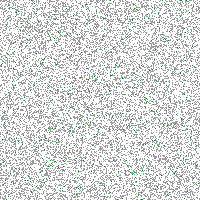
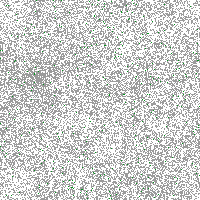
Normal chip pink noise (1/f^1.5 FFT-based spatial field)
Replaced 8x8 grid bilinear field (had visible grid artifacts) with
natural 1/f^β pink noise via FFT — sensor-like spatial variation
without grid boundaries. Models physical phenomena: lithography drift,
sensor hot spots, temperature gradient.

- _pink_noise_field(rng, size, exponent=1.5): FFT-based 2D pink noise
- _make_normal_chip: per-chip overall_scale (Beta(2,8)) + spatial pink
  noise field for p_noise modulation. Separate g2_field (β=2.0) for
  green dot clustering.
- Regenerate 200 chip_multilabel/Normal/ + 200 classification_chips/Normal/.
- Diversity: mean grade std 0.107, range 0.020-0.569 (200 chips, all unique
  spatial patterns).

diff --git a/chip_multilabel/gen_eval_set.py b/chip_multilabel/gen_eval_set.py
@@ -73,26 +73,68 @@ def _min_blend(a: np.ndarray, b: np.ndarray) -> np.ndarray:
     return np.minimum(a, b)
 
 
+def _pink_noise_field(rng: np.random.Generator, size: int, exponent: float = 1.5) -> np.ndarray:
+    """Generate 2D pink (1/f^β) noise field via FFT.
+
+    Natural sensor-like spatial variation (no grid artifacts).
+    - β=1.0: pink noise (mild correlation)
+    - β=1.5: balanced (default — looks like real sensor drift)
+    - β=2.0: red/Brownian noise (very smooth, large blobs)
+    """
+    white = rng.standard_normal((size, size))
+    freqs = np.fft.fftfreq(size)
+    fx, fy = np.meshgrid(freqs, freqs)
+    freq_mag = np.sqrt(fx ** 2 + fy ** 2)
+    freq_mag[0, 0] = 1.0  # avoid div by 0
+    spectrum_filter = 1.0 / (freq_mag ** exponent)
+    spectrum_filter[0, 0] = 0.0  # remove DC
+    filtered = np.real(np.fft.ifft2(np.fft.fft2(white) * spectrum_filter))
+    # normalize to [0, 1]
+    f_min, f_max = float(filtered.min()), float(filtered.max())
+    if f_max - f_min < 1e-9:
+        return np.full_like(filtered, 0.5)
+    return (filtered - f_min) / (f_max - f_min)
+
+
 def _make_normal_chip(rng: np.random.Generator) -> Image.Image:
-    """Palette-aligned Normal chip — per-chip Beta(2, 10) noise probability.
+    """Palette-aligned Normal chip — natural sensor-like spatial noise.
 
     260507 redesign (palette PNG, RGB sprinkle 폐기):
-    - per-chip p_noise ~ Beta(2, 10), mean ~0.17, range ~0.02-0.50
-    - per-pixel grade 0 (white) with prob (1-p_noise), else grade 1 (grey) 95% / grade 2 (green dot) 5%
-    - ★ palette grade 0/1/2 만 사용 (RGB 자유 색 영구 금지)
-    - return PIL Image mode='P' with palette (chip 결함 generator 와 동일 logic)
+    - 자연스러운 sensor-like 변동: 1/f^β pink noise field (FFT 기반).
+      lithography 변동 / sensor drift / hot spots 같은 physical 현상 모방.
+      grid 아티팩트 없음.
+    - per-chip overall noise level (Beta(2, 8) scale) + spatial pink-noise field
+      (β=1.5) modulation.
+    - per-pixel grade 0 (white) with prob (1 - p_local), else grade 1/2.
+    - grade 2 (green) ratio 도 별개 pink-noise field 로 spatial 변동.
+    - ★ palette grade 0/1/2 만 사용 (RGB 자유 색 영구 금지).
     """
     import sys
     from pathlib import Path as _P
     sys.path.insert(0, str(_P(__file__).resolve().parents[1] / "dist_apply"))
     import _sample_gen as sg
 
-    p_noise = float(rng.beta(2, 10))   # per-chip random noise probability
+    # Per-chip overall scale — some chips cleaner, some hazier
+    overall_scale = float(rng.beta(2, 8))   # mean ~0.20, range ~0.02-0.6
+
+    # Natural spatial p_noise field (1/f^1.5 pink noise — sensor-like)
+    p_field_raw = _pink_noise_field(rng, CHIP_SIZE, exponent=1.5)
+    # scale: pixel-wise probability = overall_scale * (0.4 + 1.2 * p_field_raw)
+    # → range ~0.4*scale (cleaner regions) ~ 1.6*scale (noisier)
+    p_field = np.clip(overall_scale * (0.4 + 1.2 * p_field_raw), 0.0, 0.85)
+
+    # Natural grade-2 (green) probability field — different pink noise instance
+    g2_field_raw = _pink_noise_field(rng, CHIP_SIZE, exponent=2.0)  # smoother
+    g2_max = float(rng.uniform(0.02, 0.15))   # per-chip max grade-2 ratio
+    g2_field = np.clip(g2_max * (0.2 + g2_field_raw), 0.0, 0.30)
+
+    # Per-pixel sampling
     u = rng.random((CHIP_SIZE, CHIP_SIZE))
-    is_noise = u < p_noise
+    is_noise = u < p_field
+
     u2 = rng.random((CHIP_SIZE, CHIP_SIZE))
-    # noise 안에서 grade 1 (정상 sprinkle) 95%, grade 2 (가끔 dot) 5%
-    noise_grade = np.where(u2 < 0.95, 1, 2).astype(np.uint8)
+    is_grade2 = u2 < g2_field
+    noise_grade = np.where(is_grade2, 2, 1).astype(np.uint8)
     grades = np.where(is_noise, noise_grade, 0).astype(np.uint8)
 
     img = Image.frombytes('P', (CHIP_SIZE, CHIP_SIZE), grades.tobytes())
